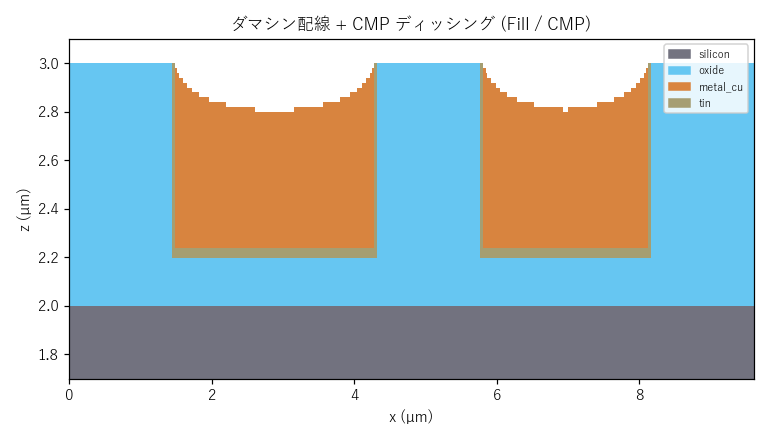
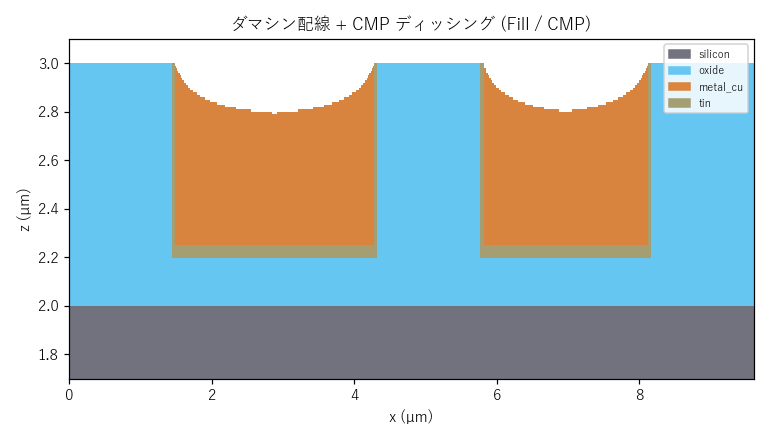
fix: DRIEスキャロップの下方掘削バグとKOHのny律速バグを修正、全画像をpitch0.01に微細化

diff --git a/docs/manual/index.html b/docs/manual/index.html
@@ -293,7 +293,7 @@ r.add(LiftOff())</code></pre>
  </section>
  <section id="defect">
   <h2>不良モード検証 (metrology)<span class="cat-badge">検証</span></h2>
-  <p>本シミュレータは主要な半導体不良モードを計測 (metrology) で検証できます。下図は段差被覆（ステップカバレッジ）の悪い PVD で高アスペクト比トレンチを埋めた例です。側壁より口元の堆積が速いため上端が先に閉じ、内部に上方ほど細る<strong>キーホール（ティアドロップ）状の埋め込みボイド</strong>が残ります（void_metrics 個数=1 → 検出）。口元が塞がった瞬間に内部の空気は最上面との連結が切れ、以降フラックスが届かず空洞として凍結する——という実プロセスの封止機構をそのまま再現しています。</p><table class='param'><tr><th>不良モード</th><th>計測関数</th></tr><tr><td>ボイド（充填不良）</td><td><code>void_metrics</code></td></tr><tr><td>エッチ残渣・ストリンガー</td><td><code>etch_residue_metrics</code></td></tr><tr><td>アンダーカット</td><td><code>undercut_um</code></td></tr><tr><td>ピンホール（貫通欠陥）</td><td><code>pinhole_metrics</code></td></tr><tr><td>オープン（断線）</td><td><code>electrical_continuity</code> / <code>line_resistance_ohm</code></td></tr><tr><td>ショート</td><td><code>min_spacing_um</code></td></tr><tr><td>ディッシング・エロージョン</td><td><code>dishing_depth_um</code></td></tr><tr><td>ウェハ反り（膜応力）</td><td><code>wafer_bow_um</code></td></tr><tr><td>一括検査</td><td><code>defect_report</code></td></tr></table><p><code>metrology.defect_report(wafer)</code> でこれらを横断検査した機械可読な辞書が得られ、CLI の <code>--json-report</code> 出力にも <code>defects</code> として含まれます。本例の検出材料数: 2。</p><pre><code>from semisim import metrology
+  <p>本シミュレータは主要な半導体不良モードを計測 (metrology) で検証できます。下図は段差被覆（ステップカバレッジ）の悪い PVD で高アスペクト比トレンチを埋めた例です。側壁より口元の堆積が速いため上端が先に閉じ、内部に上方ほど細る<strong>キーホール（ティアドロップ）状の埋め込みボイド</strong>が残ります（void_metrics 個数=2 → 検出）。口元が塞がった瞬間に内部の空気は最上面との連結が切れ、以降フラックスが届かず空洞として凍結する——という実プロセスの封止機構をそのまま再現しています。</p><table class='param'><tr><th>不良モード</th><th>計測関数</th></tr><tr><td>ボイド（充填不良）</td><td><code>void_metrics</code></td></tr><tr><td>エッチ残渣・ストリンガー</td><td><code>etch_residue_metrics</code></td></tr><tr><td>アンダーカット</td><td><code>undercut_um</code></td></tr><tr><td>ピンホール（貫通欠陥）</td><td><code>pinhole_metrics</code></td></tr><tr><td>オープン（断線）</td><td><code>electrical_continuity</code> / <code>line_resistance_ohm</code></td></tr><tr><td>ショート</td><td><code>min_spacing_um</code></td></tr><tr><td>ディッシング・エロージョン</td><td><code>dishing_depth_um</code></td></tr><tr><td>ウェハ反り（膜応力）</td><td><code>wafer_bow_um</code></td></tr><tr><td>一括検査</td><td><code>defect_report</code></td></tr></table><p><code>metrology.defect_report(wafer)</code> でこれらを横断検査した機械可読な辞書が得られ、CLI の <code>--json-report</code> 出力にも <code>defects</code> として含まれます。本例の検出材料数: 2。</p><pre><code>from semisim import metrology
 rep = metrology.defect_report(wafer)
 print(rep['voids'], rep['per_material'])</code></pre><img src='img/defect_void.png' alt='void'>
  </section>

diff --git a/semisim/processes.py b/semisim/processes.py
@@ -1910,20 +1910,23 @@ class AnisoWetEtch(Process):
         if not opening.any():
             return
 
-        for d in range(depth):
-            inset = int(round(d / tan_a))  # 深さに比例して内側へ後退
-            if inset > 0:
-                layer = ndimage.binary_erosion(opening, iterations=inset)
-            else:
-                layer = opening
-            if not layer.any():
-                break
-            zlayer = z_top - d
-            sel = layer & (zlayer >= 0)
-            ys, xs = np.nonzero(sel)
-            zz = zlayer[ys, xs]
-            is_t = grid[zz, ys, xs] == target_id
-            grid[zz[is_t], ys[is_t], xs[is_t]] = materials.AIR
+        # 各開口列について、最も近い開口縁までの水平距離を求める。結晶異方性
+        # エッチでは側壁が角度 angle で内側へ傾くため、縁から距離 r の列は
+        # 深さ r·tan(angle) まで掘れて V 溝/逆ピラミッド底で自己停止する。
+        # （帯状開口は幅、正方形開口は対角で律速。binary_erosion を使うと
+        #  y 方向にも侵食して薄い格子では深さが ny に律速される不具合を回避）
+        dist = ndimage.distance_transform_edt(opening)  # 縁からの距離[vox]
+        max_d_col = np.minimum(dist * tan_a, float(depth))  # 列ごと到達深さ[vox]
+
+        z_idx = np.arange(grid.shape[0])[:, None, None]
+        # 各列で z_top-d (d=1..max_d_col) のターゲット材を除去する。
+        etch_mask = (
+            opening[None, :, :]
+            & (z_idx <= z_top[None, :, :])
+            & (z_idx > (z_top - max_d_col.astype(int))[None, :, :])
+            & (grid == target_id)
+        )
+        grid[etch_mask] = materials.AIR
 
     def params_dict(self) -> dict:
         return {
@@ -2208,7 +2211,12 @@ class DRIE(Process):
 
         amp = wafer.um_to_vox(self.scallop_um) if self.scallop_um > 0 else 0
         pitch = max(2, wafer.um_to_vox(self.scallop_pitch_um))
-        struct = ndimage.generate_binary_structure(3, 1)
+        # スキャロップ膨らみは横方向(x,y)のみに広げる構造要素。z 成分を含めると
+        # dilation が下方へも掘り進み、エッチ深さが指定値より深くなってしまう。
+        lat_struct = np.zeros((3, 3, 3), dtype=bool)
+        lat_struct[1, 1, 1] = True
+        lat_struct[1, 0, 1] = lat_struct[1, 2, 1] = True
+        lat_struct[1, 1, 0] = lat_struct[1, 1, 2] = True
 
         for d in range(depth):
             z_top, top_id = _top_material(wafer)
@@ -2220,12 +2228,14 @@ class DRIE(Process):
             grid[zz, ys, xs] = materials.AIR
             etched[do] += 1.0
             # スキャロップ: 周期の中央付近でその層だけ側壁を横へ膨らませる。
-            # 直近に掘った 1 層分のみを横方向に拡張するため、深さに比例した
-            # 累積的なテーパは生じず、垂直側壁に局所的な凹凸が付く。
+            # 直近に掘った 1 層分のみを横方向(x,y)に拡張するため、深さに比例した
+            # 累積的なテーパや過剰掘りは生じず、垂直側壁に局所的な凹凸が付く。
             if amp > 0 and (d % pitch) == (pitch // 2):
                 layer = np.zeros(grid.shape, dtype=bool)
                 layer[zz, ys, xs] = True
-                ring = ndimage.binary_dilation(layer, structure=struct, iterations=amp)
+                ring = ndimage.binary_dilation(
+                    layer, structure=lat_struct, iterations=amp
+                )
                 bulge = ring & (grid == target_id)
                 grid[bulge] = materials.AIR
 

diff --git a/tools/build_manual.py b/tools/build_manual.py
@@ -57,8 +57,9 @@ OUT_DIR = os.path.join(ROOT, "docs", "manual")
 IMG_DIR = os.path.join(OUT_DIR, "img")
 
 
-def cfg(nx=400, ny=20, nz=280, pitch=0.02, sub=2.0) -> WaferConfig:
-    # pitch=0.02µm の細かいボクセルで断面の曲線・斜面を滑らかに描く（角つき低減）。
+def cfg(nx=800, ny=16, nz=560, pitch=0.01, sub=2.0) -> WaferConfig:
+    # pitch=0.01µm の微細ボクセルで断面の曲線・斜面・スキャロップを
+    # 滑らかに描く（角つきを極力抑える）。断面は XZ 面なので ny は小さく保つ。
     return WaferConfig(nx=nx, ny=ny, nz=nz, pitch_um=pitch, substrate_um=sub)
 
 
@@ -260,7 +261,7 @@ def demos() -> list:
 
     # --- 異方性ウェット（KOH） ---
     def d_koh():
-        r = Recipe(config=cfg(nz=320, sub=3.0))
+        r = Recipe(config=cfg(nz=640, sub=3.0))
         r.add(CVD(material="nitride", thickness_um=0.3))
         r.add(Photo(mask=_center_mask(0.5), thickness_um=0.8, polarity="positive"))
         r.add(DryEtch(targets=["nitride"], depth_um=0.4))
@@ -281,7 +282,7 @@ def demos() -> list:
 
     # --- DRIE ---
     def d_drie():
-        r = Recipe(config=cfg(nz=360, sub=4.0))
+        r = Recipe(config=cfg(nz=720, sub=4.0))
         r.add(Photo(mask=_stripe_mask(0.6, 0.3), thickness_um=1.0, polarity="positive"))
         r.add(DRIE(target="silicon", depth_um=3.0, scallop_um=0.12, scallop_pitch_um=0.35))
         r.add(Strip(material="photoresist"))
@@ -376,7 +377,7 @@ def demos() -> list:
 
     # --- ダマシン Cu + CMP ディッシング（目玉） ---
     def d_damascene():
-        r = Recipe(config=cfg(nx=480, nz=320, sub=2.0))
+        r = Recipe(config=cfg(nx=960, nz=640, sub=2.0))
         r.add(CVD(material="oxide", thickness_um=1.0))
         mask = Mask(shapes=[Shape("rect", {"x0": 0.15, "y0": 0.0, "x1": 0.45, "y1": 1.0}),
                             Shape("rect", {"x0": 0.6, "y0": 0.0, "x1": 0.85, "y1": 1.0})])
@@ -432,11 +433,11 @@ def defect_section() -> tuple[str, str]:
     # ボイド: 高アスペクト比トレンチを等角性の悪い PVD で埋め、口元が先に
     # 塞がって内部にキーホール（ティアドロップ）状の空洞が残る様子を再現する。
     # 細かいボクセル(pitch=0.02µm)で側壁被覆と口元の絞り込みを滑らかに描く。
-    pitch = 0.02
+    pitch = 0.01
     width, depth = 0.5, 1.5
-    span = 300 * pitch
+    span = 600 * pitch
     frac = width / span
-    r = Recipe(config=WaferConfig(nx=300, ny=12, nz=240, pitch_um=pitch, substrate_um=2.0))
+    r = Recipe(config=WaferConfig(nx=600, ny=12, nz=480, pitch_um=pitch, substrate_um=2.0))
     r.add(CVD(material="oxide", thickness_um=depth + 0.3))
     r.add(Photo(
         mask=Mask(shapes=[Shape("rect", {"x0": (1 - frac) / 2, "y0": 0.0,
